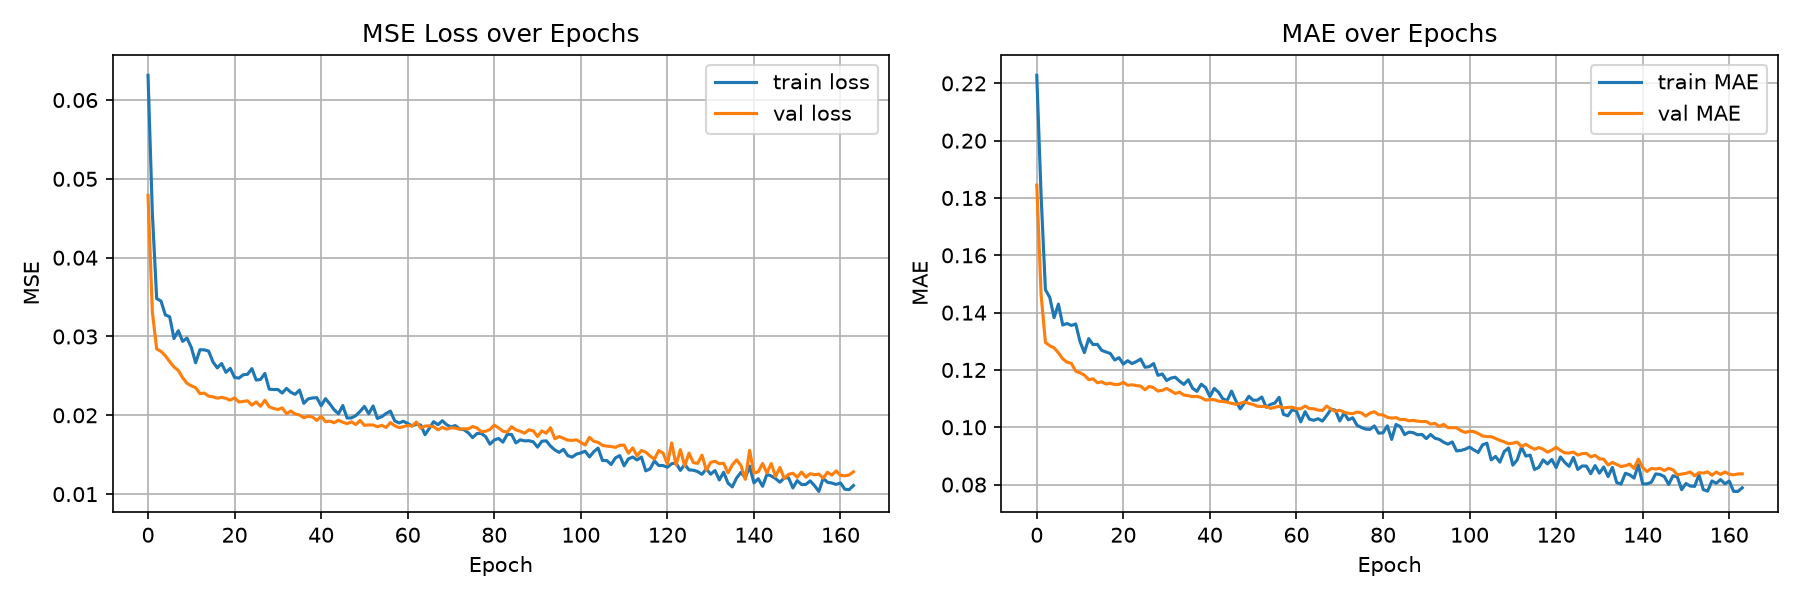
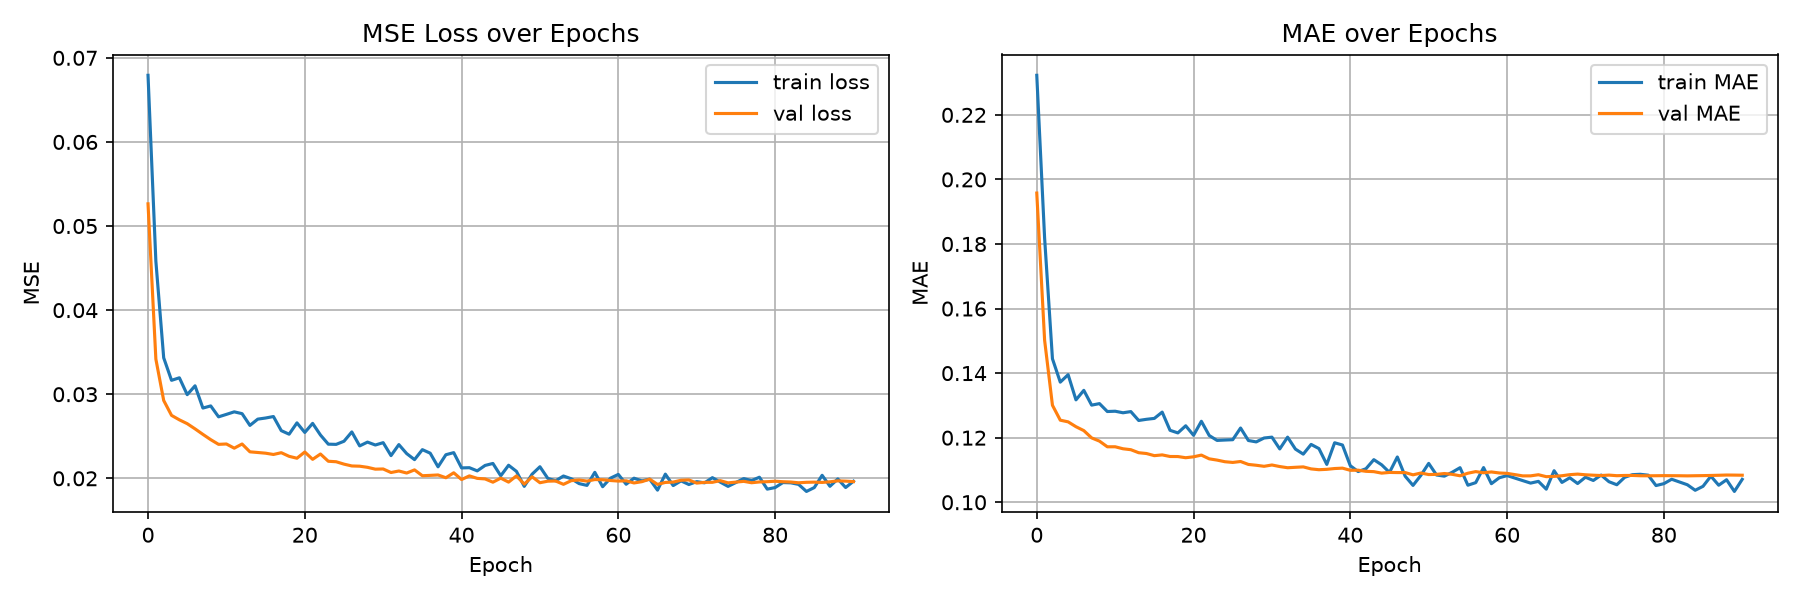
WIP: LSTM training optimisation

diff --git a/apps/ml/train.py b/apps/ml/train.py
@@ -133,7 +133,7 @@ def build_model() -> keras.Model:
     ])
     
     model.compile(
-        optimizer = keras.optimizers.Adam(learning_rate = LEARNING_RATE),
+        optimizer = keras.optimizers.Adam(learning_rate = LEARNING_RATE, clipnorm = 1.0),
         loss = 'mse',
         metrics = ['mae'],
     )
@@ -211,7 +211,7 @@ def convert_to_tflite(model: keras.Model, output_dir: str) -> None:
 # ============================================================
 # EVALUATION:
 # ============================================================
-def evaluate(model: keras.Model, X_val: np.ndarray, y_val: np.ndarray) -> None:
+def evaluate(model: keras.Model, X_val: np.ndarray, y_val: np.ndarray, history=None) -> None:
     preds = model.predict(X_val, verbose=0)    # shape(n_val, 2)
     
     fill_mae = float(np.mean(np.abs(preds[:, 0] - y_val[:, 0])))
@@ -240,7 +240,7 @@ def evaluate(model: keras.Model, X_val: np.ndarray, y_val: np.ndarray) -> None:
     
     _plot_history_ref = None    # Populated in main()
     
-    if hasattr(evaluate, '_history'):
+    if history is not None:
         fig, (ax1, ax2) = plt.subplots(1, 2, figsize=(12, 4))
         history = evaluate._history
         
@@ -268,6 +268,8 @@ def evaluate(model: keras.Model, X_val: np.ndarray, y_val: np.ndarray) -> None:
 # MAIN
 # ============================================================
 def main() -> None:
+    np.random.seed(42)
+    tf.random.set_seed(42)
     parser = argparse.ArgumentParser(
         description = "Train LSTM model for event attendance prediction"
     )
@@ -330,7 +332,6 @@ def main() -> None:
     print(f"\nBest epoch : {best_epoch}  |  best val_loss : {best_val_loss:.6f}\n")
 
     # == Evaluate ======================================================================
-    evaluate._history = history  # pass history to the evaluator for the plot
     evaluate(model, X_val_seq, y_val_seq)
 
     # == Convert to TFLite ============================================================
